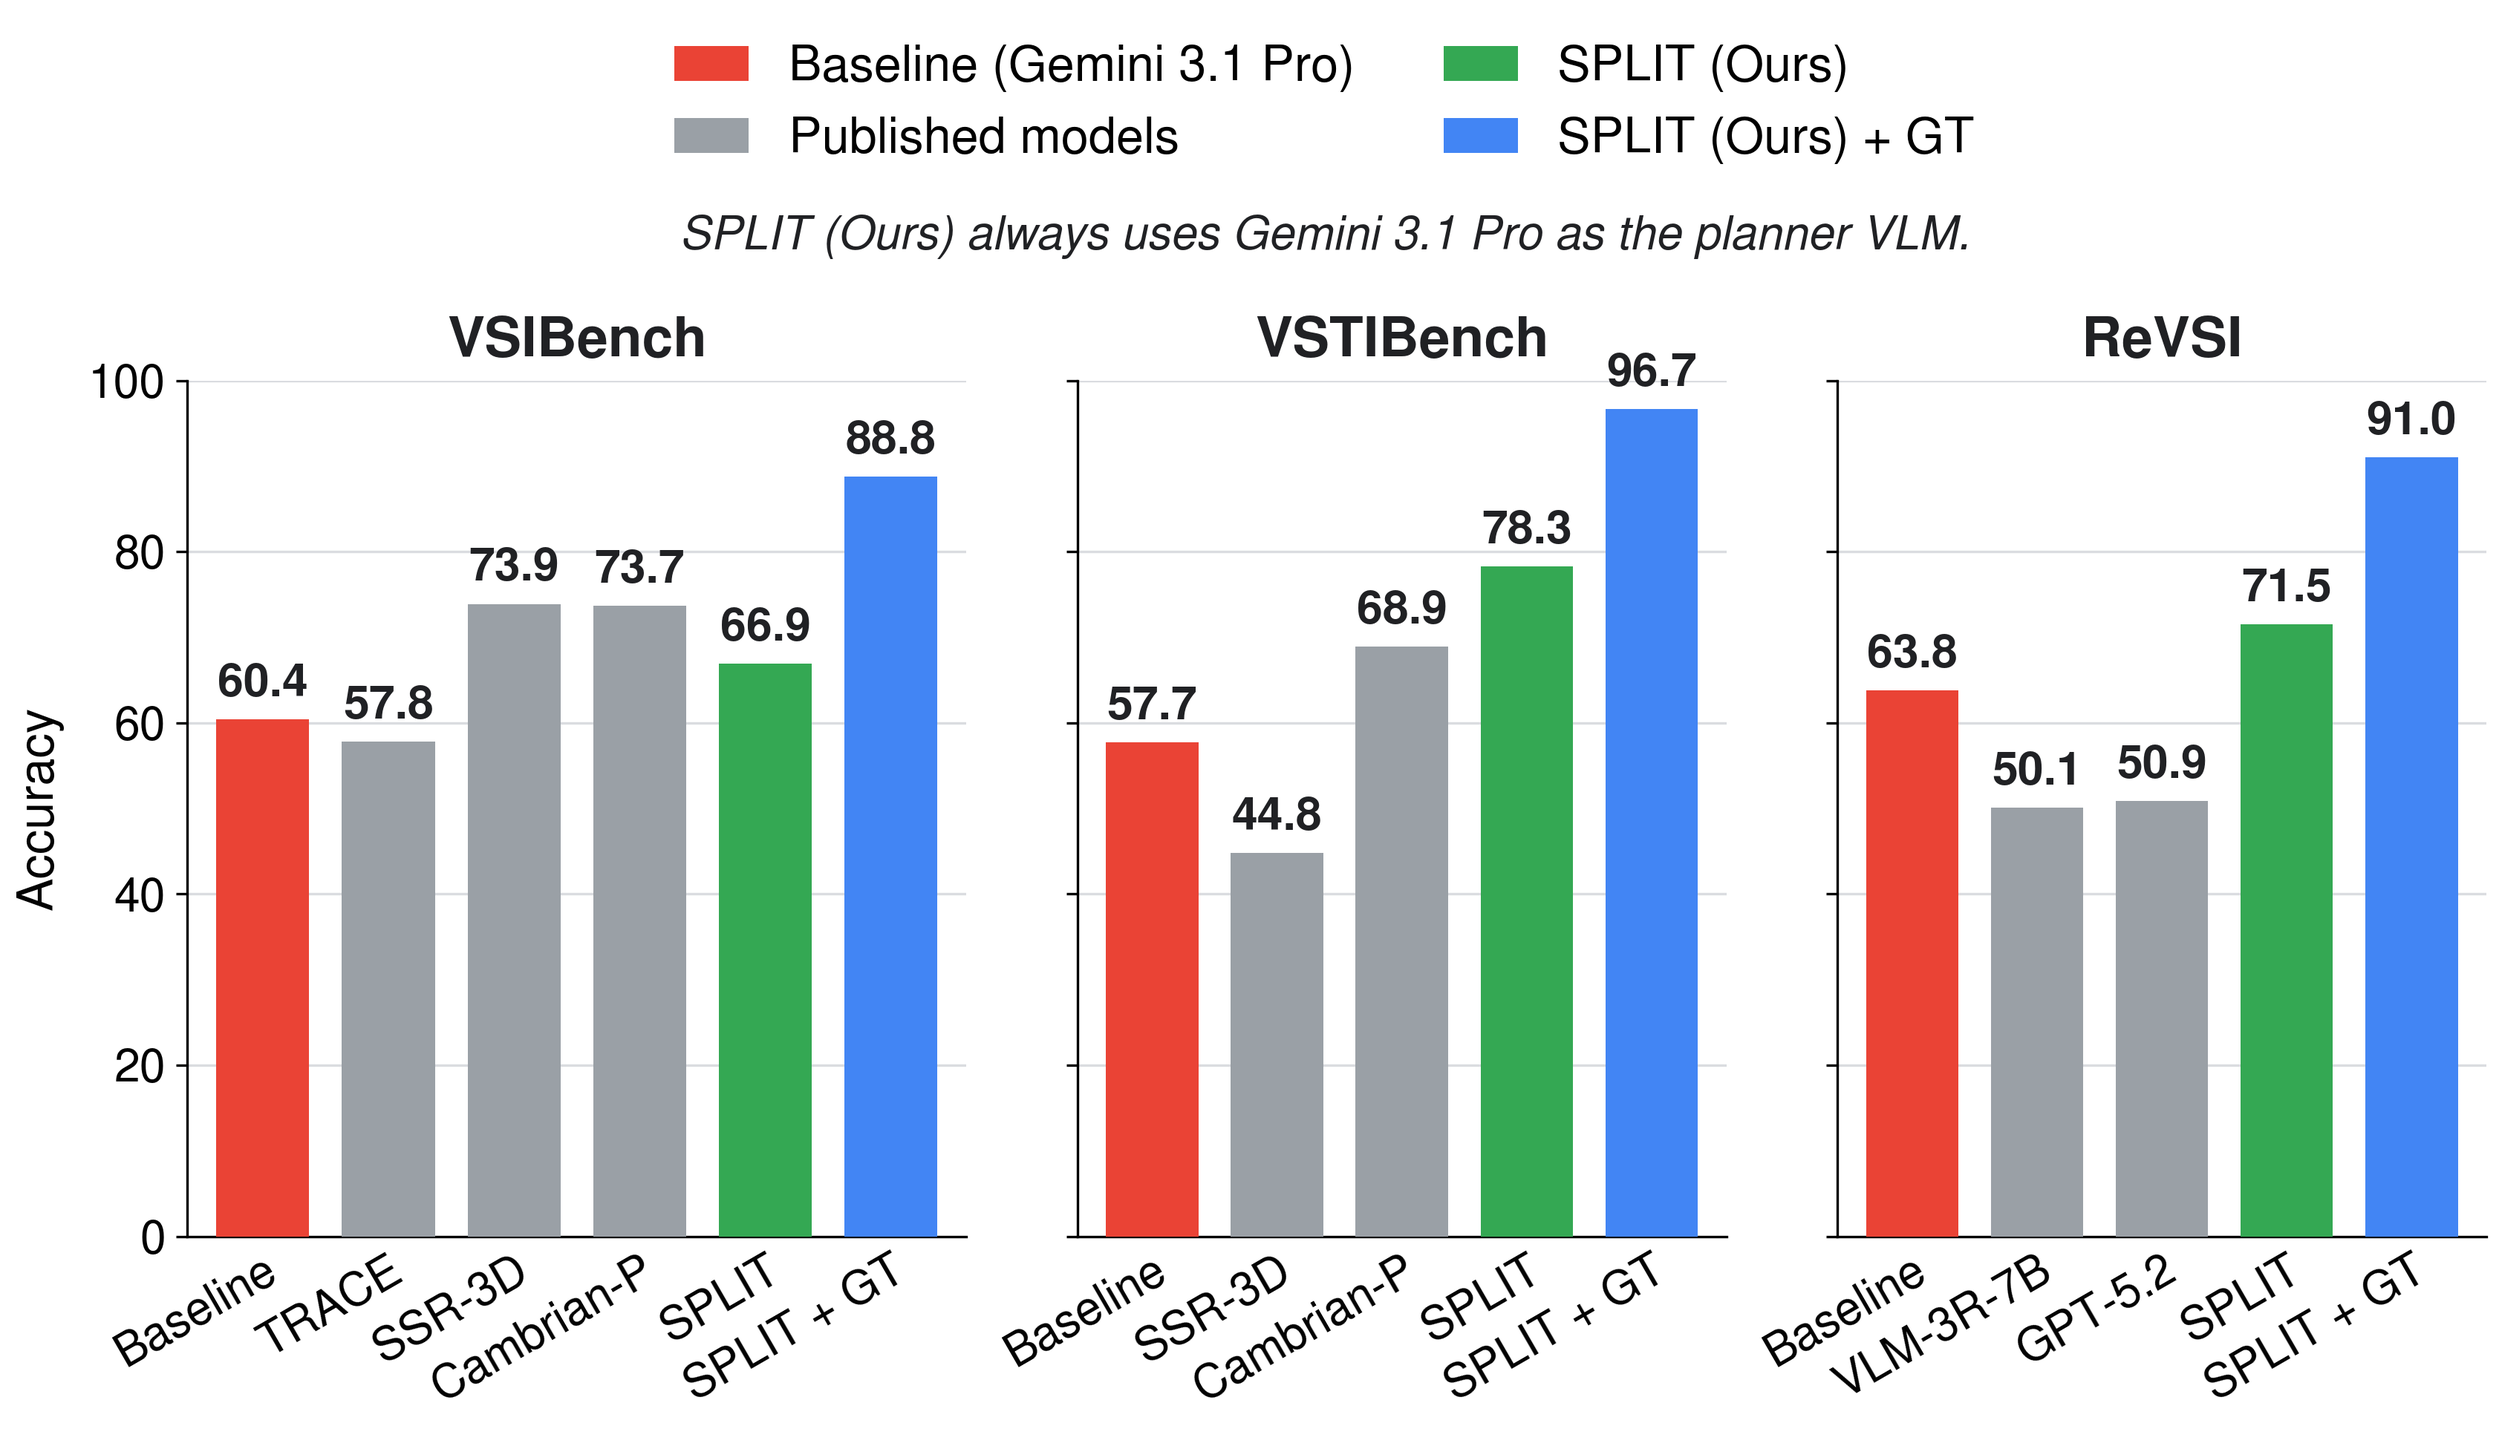
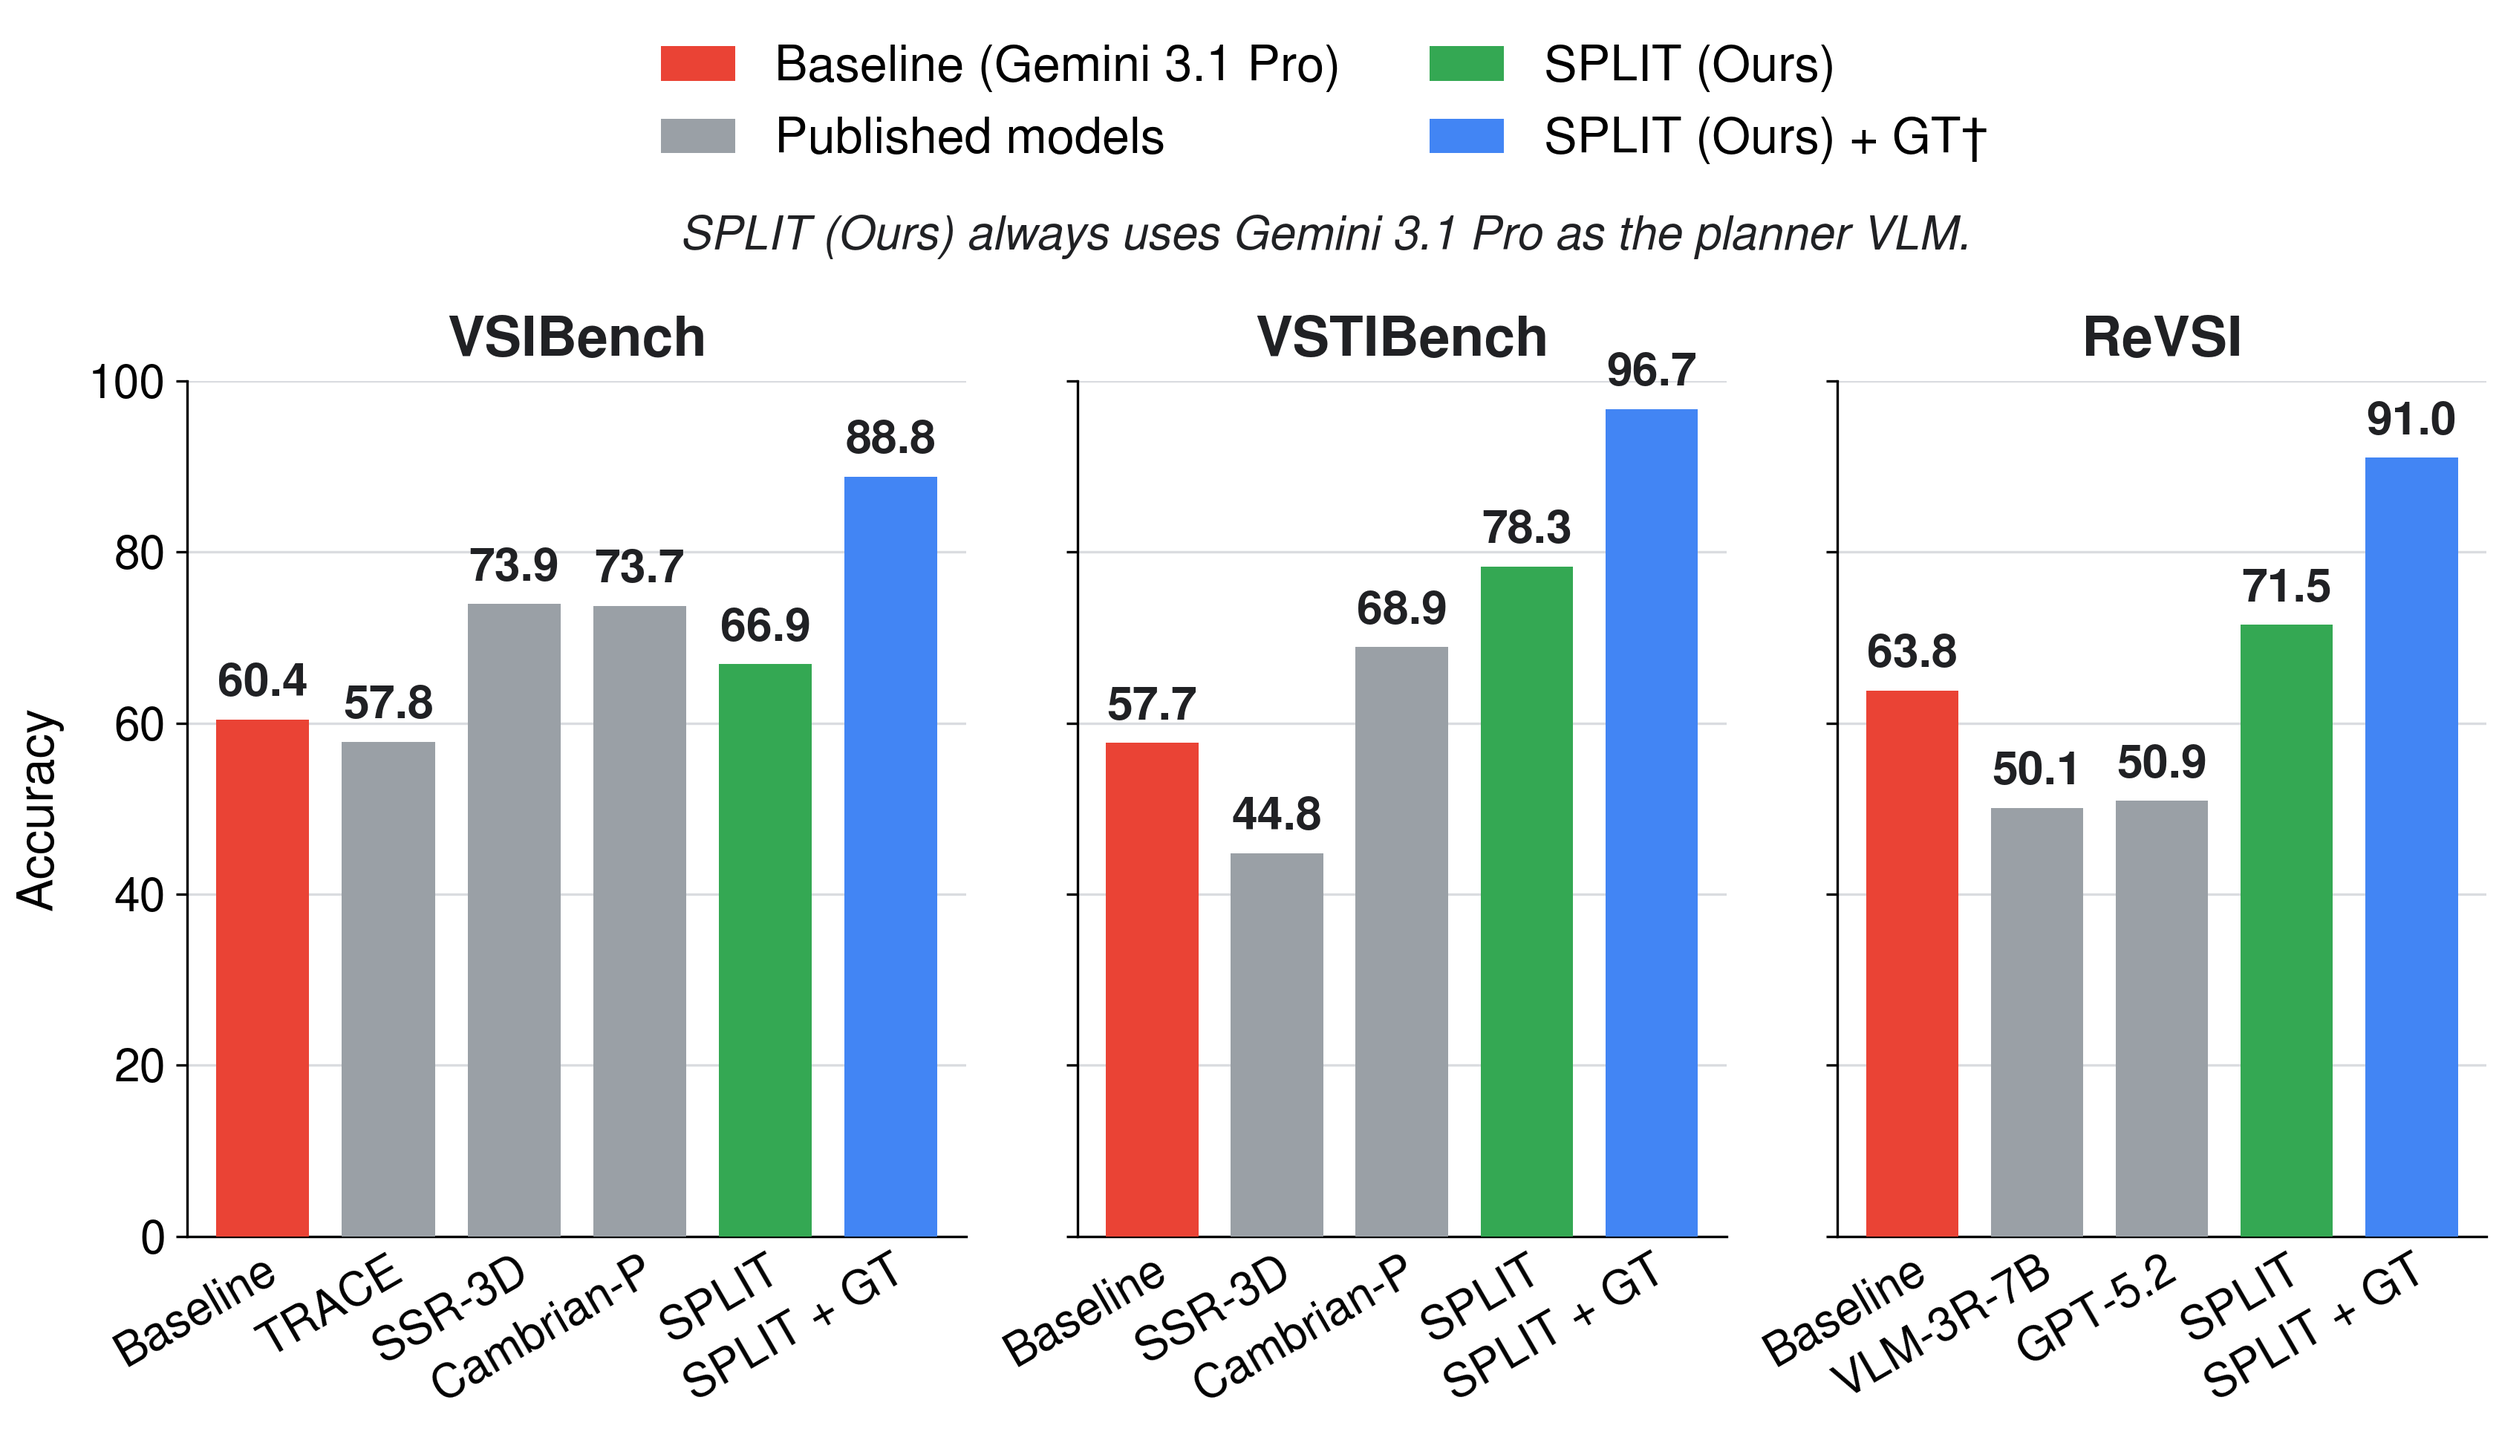
Charts: dagger on the SPLIT (Ours) + GT legend entry with footnotes under each figure; site chart build script

Changed region(s): [[0.2496, 0.0308, 0.7801, 0.1233]]

diff --git a/index.html b/index.html
@@ -220,6 +220,7 @@
 
     <!-- CANDIDATE: benchmark chart; user decides keep or cut after preview -->
     <img src="static/images/benchmark_bars.png" alt="Bar chart of benchmark scores for the baseline VLM, SPLIT, and SPLIT with ground-truth measurements.">
+    <p class="is-size-7 has-text-grey" style="margin-top: 0.5rem;">&dagger; SPLIT (Ours) + GT is measured on each benchmark's analysis subset; VSIBench and ReVSI counting are oracle ceilings.</p>
   </div>
 </section>
 
@@ -229,7 +230,7 @@
     <div class="band band-green">Ground Truth Closes the Gap in Every Category</div>
     <img src="static/images/vsti_category_bars.png" alt="Per-category VSTIBench scores for the baseline VLM, SPLIT, and SPLIT with ground-truth measurements.">
     <img src="static/images/vsib_category_bars.png" alt="Per-category VSIBench scores for the baseline VLM, SPLIT, and SPLIT with ground-truth measurements." style="margin-top: 1.5rem;">
-    <p class="is-size-7 has-text-grey" style="margin-top: 0.5rem;">Ground-truth cells use each benchmark's analysis subset. On VSIBench, counting is an oracle ceiling and appearance order uses a 50-question answerable cohort.</p>
+    <p class="is-size-7 has-text-grey" style="margin-top: 0.5rem;">&dagger; SPLIT (Ours) + GT is measured on each benchmark's analysis subset. On VSIBench, counting is an oracle ceiling and appearance order uses a 50-question answerable cohort.</p>
   </div>
 </section>
 

diff --git a/scripts/make_vsib_category_bars.py b/scripts/make_vsib_category_bars.py
@@ -30,6 +30,7 @@ plt.rcParams["axes.unicode_minus"] = False
 
 HERE = os.path.dirname(os.path.abspath(__file__))
 OUT = os.path.join(HERE, "..", "static", "images", "vsib_category_bars.png")
+GT_MARK = os.environ.get("CHART_GT_MARK", "†")   # dagger on the GT legend entry, footnoted on the page
 
 COL_W = (35.25 - 2 * 0.5 - 2 * 0.3) / 3.0      # the poster chart's width, so both charts share one look
 FIG_H = 5.0
@@ -53,7 +54,7 @@ def main():
     x = np.arange(len(CATS))
     w = 0.28
     fig, ax = plt.subplots(figsize=(COL_W, FIG_H))
-    series = [("Baseline (Gemini 3.1 Pro)", BASELINE, RED), ("SPLIT (Ours)", SPLIT, GREEN), ("SPLIT (Ours) + GT", SPLIT_GT, BLUE)]
+    series = [("Baseline (Gemini 3.1 Pro)", BASELINE, RED), ("SPLIT (Ours)", SPLIT, GREEN), ("SPLIT (Ours) + GT" + GT_MARK, SPLIT_GT, BLUE)]
     values = [BASELINE, SPLIT, SPLIT_GT]
     labels = {}
     for i, (label, vals, color) in enumerate(series):

diff --git a/ASSETS.md b/ASSETS.md
@@ -37,8 +37,8 @@ The re-encode keeps the source geometry and timing: 1920x1080, 30 fps, 73.80 s.
 | `static/images/sample_question.png` | `/home/jjyeung/agent-project-paper/figure_kit/fig1_teaser/req83_776/variant_d_onerow/fig1_teaser_variant_d_editable_avg_v15.pptx` | python-pptx deletes shape ids 2, 3, 17 and every shape whose left edge is at or beyond 185 mm, and clears the outline on the `white_background` rectangle; then `LO_PROFILE=... soffice.sh --convert-to pdf`, then the 300 dpi render-and-trim recipe |
 | `static/images/pipeline.png` | `/home/jjyeung/agent-project-paper/figures/fig_pipeline.pdf` | 300 dpi render-and-trim recipe |
 | `static/images/walkthrough.png` | `/home/jjyeung/agent-project-paper/figure_kit/fig1_hero_trace/variant_b_q1851/hero_figure_filled_v16_user_5frames.pdf` | 300 dpi render-and-trim recipe |
-| `static/images/benchmark_bars.png` | `/home/jjyeung/agent-project-paper/figure_kit/poster_eccv/assets/benchmark_bars.png` | `cp` (placeholder: a newer render replaces it under the same name) |
-| `static/images/vsti_category_bars.png` | `/home/jjyeung/agent-project-paper/figure_kit/poster_eccv/assets/vsti_category_bars.png` | `cp` (placeholder: a newer render replaces it under the same name) |
+| `static/images/benchmark_bars.png` | poster kit `make_benchmark_bars.py` run by `scripts/make_site_charts.sh` (dagger on the GT legend entry) | `bash scripts/make_site_charts.sh` |
+| `static/images/vsti_category_bars.png` | poster kit `make_category_bars.py` run by `scripts/make_site_charts.sh` (dagger on the GT legend entry) | `bash scripts/make_site_charts.sh` |
 
 `sample_question.png` shows panel (a) of the paper teaser figure. Deleting the shapes listed
 above removes the panel (b) column and the two panel captions.
@@ -72,4 +72,4 @@ def render_trim(pdf, out, pad=12, dpi=300, inset=3):
     im.crop((max(0, l - pad), max(0, t - pad),
              min(W, r + pad), min(H, b + pad))).save(out, optimize=True)
 ```
-| `static/images/vsib_category_bars.png` | built by `scripts/make_vsib_category_bars.py` (numbers and sources in its docstring) | `python scripts/make_vsib_category_bars.py` |
+| `static/images/vsib_category_bars.png` | `scripts/make_vsib_category_bars.py` (numbers and sources in its docstring; dagger on the GT legend entry) | `bash scripts/make_site_charts.sh` |
